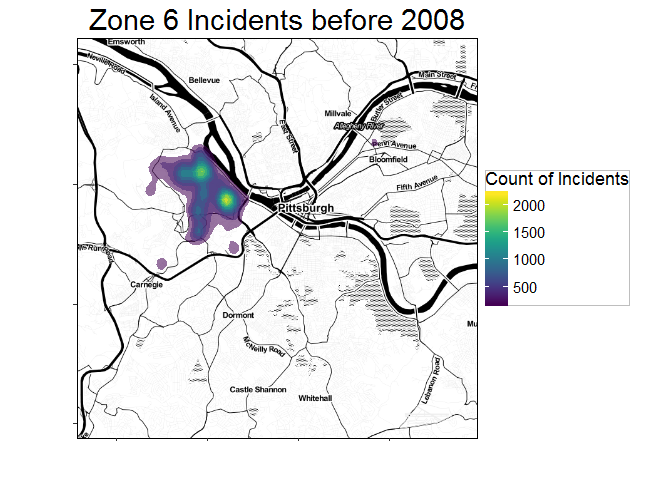
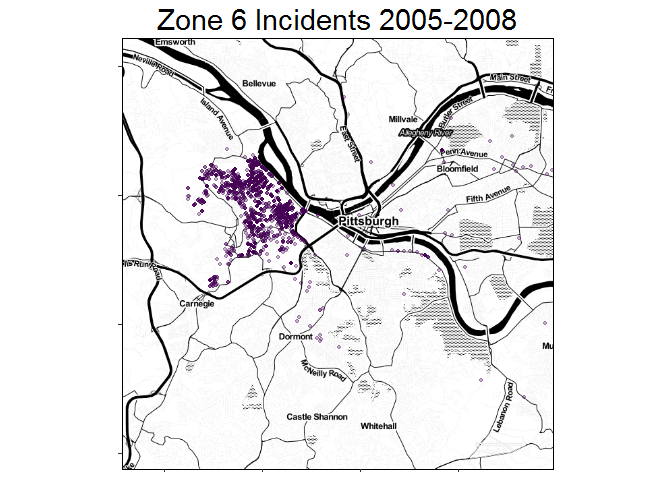
made CJ edits

diff --git a/Data_Problem_Analysis.md b/Data_Problem_Analysis.md
@@ -52,7 +52,7 @@ city_map_11 +
         axis.text = element_blank())
 ```
 
-    ## Warning: Removed 22717 rows containing missing values (geom_point).
+    ## Warning: Removed 22716 rows containing missing values (geom_point).
 
 ![](Data_Problem_Analysis_files/figure-markdown_github/create%20zone%20map-1.png)
 
@@ -91,7 +91,7 @@ city_map_12 +
         axis.text = element_blank())
 ```
 
-    ## Warning: Removed 25521 rows containing missing values (geom_point).
+    ## Warning: Removed 29005 rows containing missing values (geom_point).
 
 ![](Data_Problem_Analysis_files/figure-markdown_github/faceted%20zone%20map-1.png)
 
@@ -129,12 +129,10 @@ city_map_12 +
        y = NULL) +
   guides(alpha = FALSE,
          color = FALSE) +
-  theme(legend.position = "bottom",
-        legend.direction = "horizontal",
-        axis.text = element_blank())
+  theme(axis.text = element_blank())
 ```
 
-    ## Warning: Removed 4846 rows containing missing values (geom_point).
+    ## Warning: Removed 5032 rows containing missing values (geom_point).
 
 ![](Data_Problem_Analysis_files/figure-markdown_github/nbh%20map-1.png)
 
@@ -155,7 +153,7 @@ city_map_12 +
         strip.text = element_text(size = 6))
 ```
 
-    ## Warning: Removed 4846 rows containing missing values (geom_point).
+    ## Warning: Removed 5032 rows containing missing values (geom_point).
 
 ![](Data_Problem_Analysis_files/figure-markdown_github/nbh%20facet%20map-1.png)
 
@@ -312,7 +310,7 @@ ggplot(df_zones_nbh, aes(count, percent_correct, label = neighborhood, fill = co
 
 ![](Data_Problem_Analysis_files/figure-markdown_github/correct%20zone%20percentage%20plot-1.png)
 
-Zone 6 appears to have the lowest % of correct Zone assignments. Southside Flats and Golden Triangle/Civic Arena have most of the incorrect assignments
+Zone 6 appears to have the lowest % of correct Zone assignments. Golden Triangle/Civic Arena and Bloomfield appear to have most of the incorrect assignments
 
 Our original question was: What are the drivers of the incorrect assignments?
 
@@ -461,29 +459,16 @@ df_map_z6 <- df %>%
 
 ``` r
 ggmap(z6_map) +
-  stat_density_2d(data = df_map_z6, #Using a 2d contour
-                  aes(x, #longitude
-                      y, #latitude
-                      fill = ..level.., #Use the count of incidents as the fill
-                      alpha = .5), #Use alpha so you can see the map under the data
-                  geom = "polygon") + #We want the contour in a polygon
-  scale_fill_viridis() +
-  guides(alpha = FALSE,
-         fill = guide_colorbar("Count of Incidents")) +
-  labs(x = "",
-       y = "",
-       title = "Zone 6 Incidents before 2008") +
-  theme_nhh() +
+geom_point(data = df_map_z6, aes(x, y, color = zone), alpha = .3, size = 1) +
+  scale_color_viridis(discrete = TRUE) +
+  guides(color = FALSE) +
+  labs(x = NULL,
+       y = NULL,
+       title = "Zone 6 Incidents 2005-2008") +
   theme(axis.text = element_blank())
 ```
 
-    ## Warning: `panel.margin` is deprecated. Please use `panel.spacing` property
-    ## instead
-
-    ## Warning: `legend.margin` must be specified using `margin()`. For the old
-    ## behavior use legend.spacing
-
-    ## Warning: Removed 170 rows containing non-finite values (stat_density2d).
+    ## Warning: Removed 170 rows containing missing values (geom_point).
 
 ![](Data_Problem_Analysis_files/figure-markdown_github/plot%20map-1.png)
 
@@ -491,4 +476,4 @@ This broadly lines up with the borders of Zone 6
 
 Incidents reported in Zone 6 before Zone 6 was reopened in 2008 appear to be geolocated appropriately
 
-I think there should be a special flag for these incidents. LOgging incidents in a Zone that did not exist at the time does not really make sense.
+I think there should be a special flag for these incidents. Assigning incidents to a Zone that did not exist at the time seems confusing
